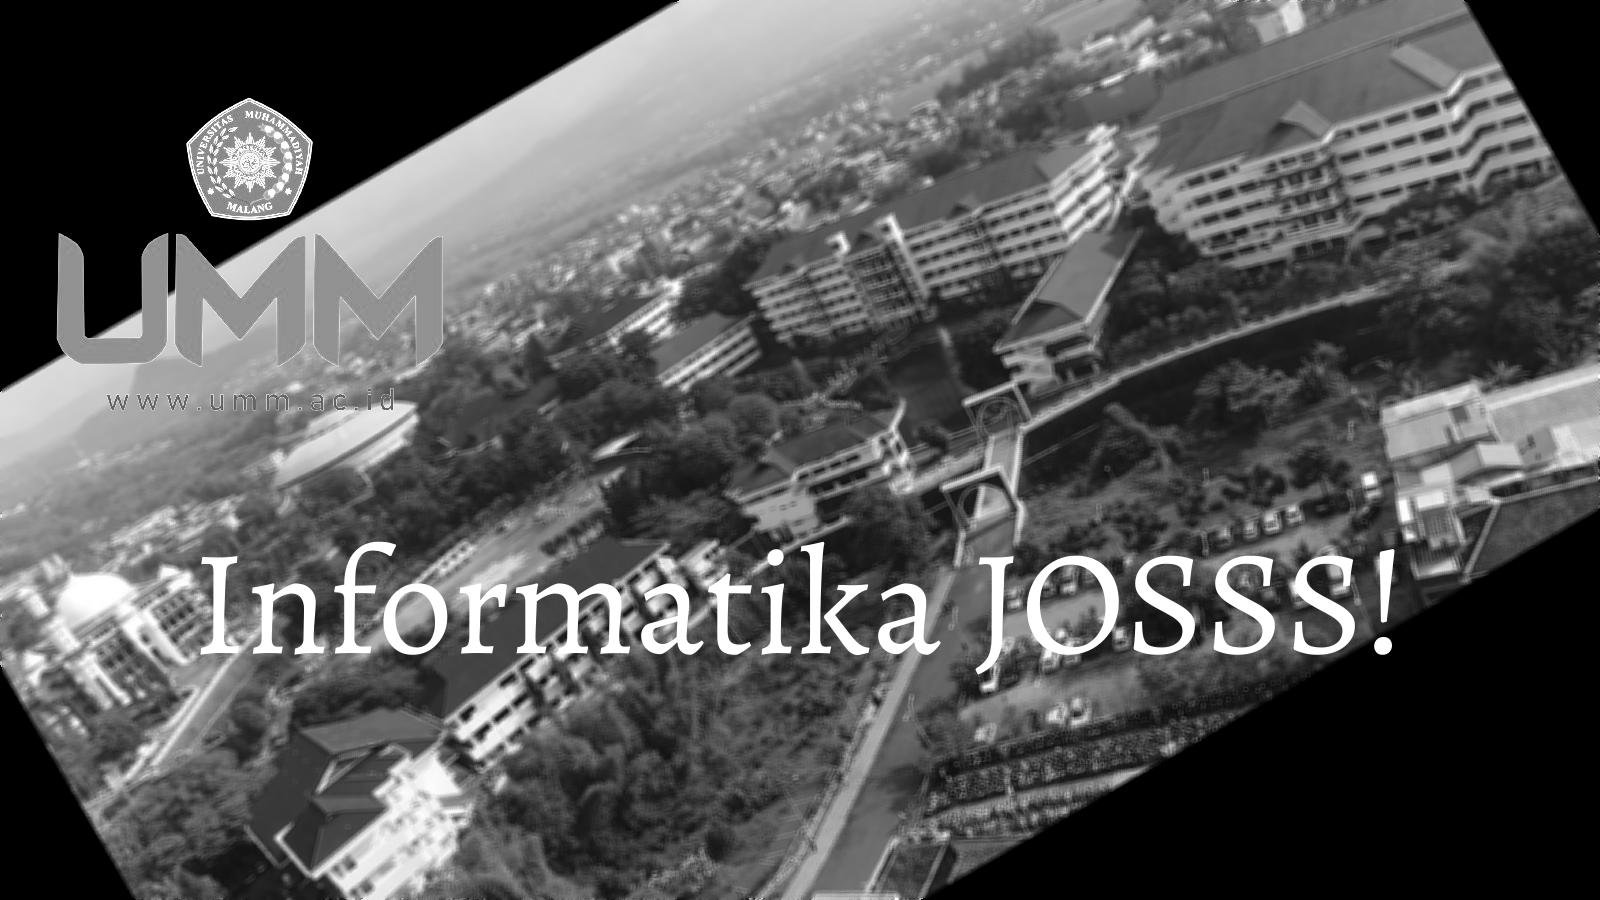
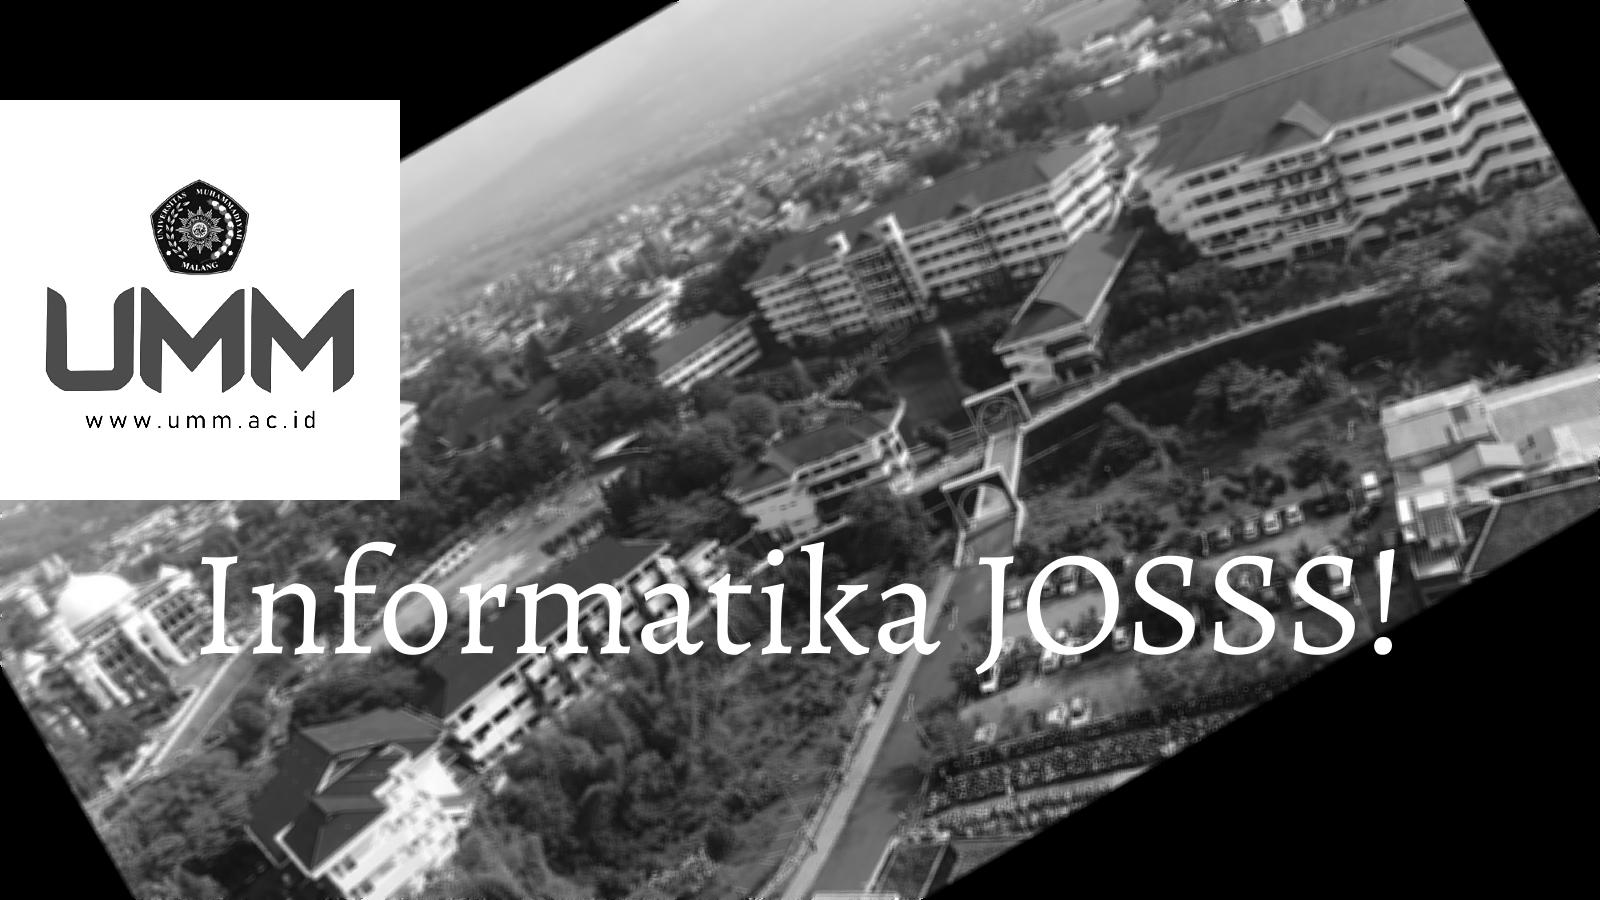
commit

Changed region(s): [[0.0, 0.0933, 0.2812, 0.56]]

diff --git a/fungsional/modul6/prak/img.py b/fungsional/modul6/prak/img.py
@@ -2,7 +2,7 @@ from PIL import Image, ImageDraw, ImageFont, ImageFilter, ImageEnhance
 
 # Buka gambar
 background = Image.open("C:\\Users\\krist\\VSCode\\fungsional\\modul6\\prak\\background.jpg")
-overlay = Image.open("C:\\Users\\krist\\VSCode\\fungsional\\modul6\\prak\\overlay.png")
+overlay = Image.open("C:\\Users\\krist\\VSCode\\fungsional\\modul6\\prak\\overlay.jpg")
 
 # Ubah gambar menjadi hitam-putih (grayscale)
 backgroundBW = background.convert("L")
@@ -10,6 +10,7 @@ backgroundBW = backgroundBW.rotate(30)
 backgroundBW = backgroundBW.filter(ImageFilter.BLUR)
 
 overlay = overlay.convert("RGBA")
+overlay = overlay.resize((400, 400))
 
 overlay_brightness = ImageEnhance.Brightness(overlay)
 overlay = overlay_brightness.enhance(1.3)
